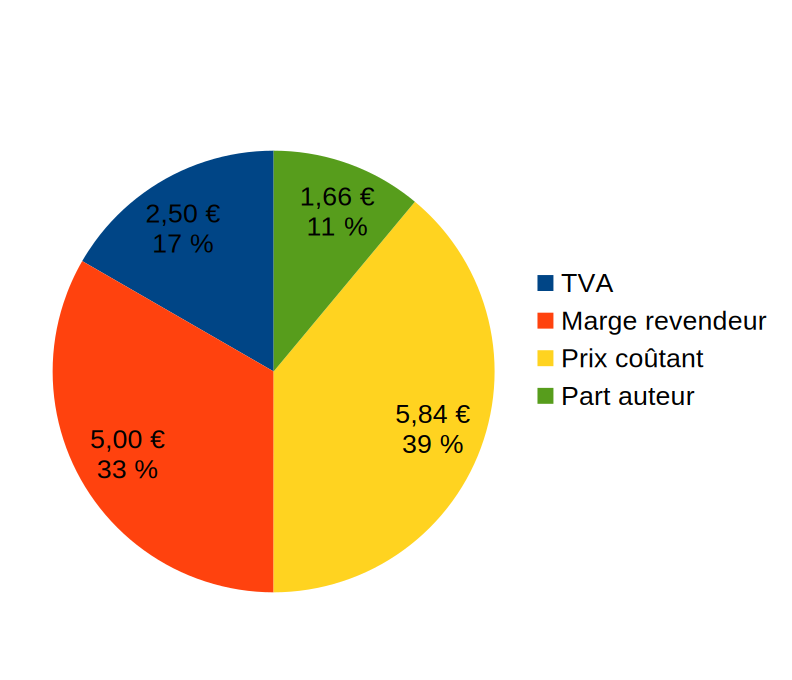
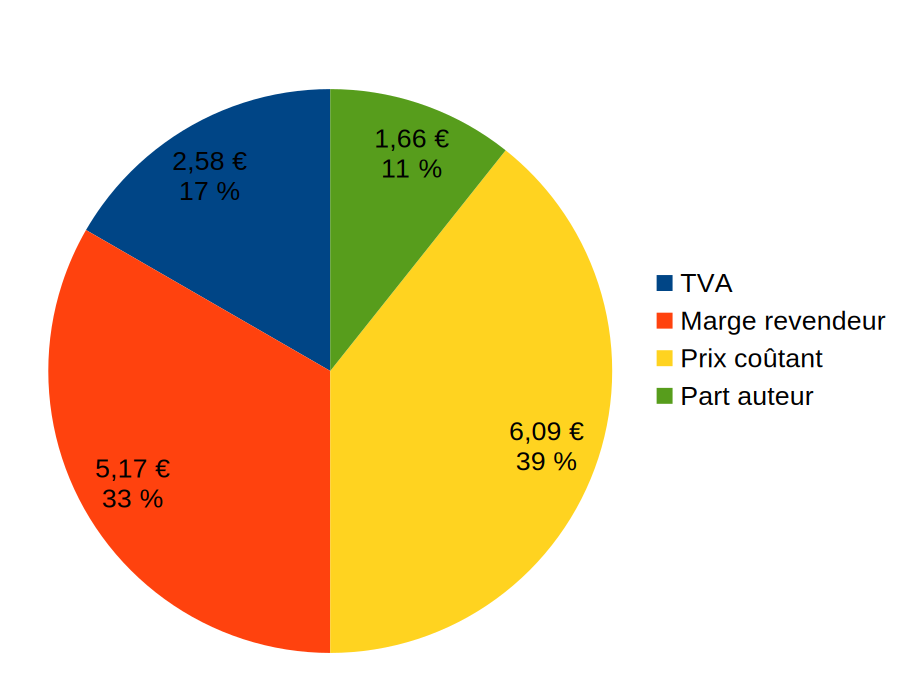
[FIX] Tout relier aux datas

Changed region(s): [[0.0303, 0.1235, 0.9697, 0.9574], [0.4545, 0.3397, 0.4848, 0.4015]]

diff --git a/produit/elementalis/page.html b/produit/elementalis/page.html
@@ -1,15 +1,16 @@
 <main>
-    <h1>Elementalis</h1>
+<h1 id="title">Elementalis</h1>
     <div class="gallery">
-        <img src="/IMAGES/elementalis_1.jpg" alt="Photo 1" height="200">
-        <img src="/IMAGES/elementalis_2.jpg" alt="Photo 2" height="200">
-        <img src="/IMAGES/elementalis_3.jpg" alt="Photo 3" height="200">
+        <img id="pic1" src="/" alt="Photo 1" height="200">
+        <img id="pic2" src="/" alt="Photo 2" height="200">
+        <img id="pic3" src="/" alt="Photo 3" height="200">
     </div>
 
     <div class="info-block">
         <table class="tg">
         <tr>
             <td>
+                <h2>Informations sur le produit</h2>
                 <p><strong>Auteur :</strong> Geoffroy "reza0310" Du Mosé Houël Du Prey De La Ruffinière</p>
                 <p><strong>Illustratrice :</strong> Louise Chamussy</p>
                 <p><strong>Nombre de joueurs :</strong> 2 à 4 et plus</p>
@@ -17,23 +18,56 @@
                 <p><strong>Type de jeu :</strong> simple, rapide et tous publiques</p>
                 <p><strong>Aspect principal :</strong> social</p>
                 <p><strong>Date de mise en vente :</strong> 08/11/2026</p>
-                <p><strong>Notice en pdf :</strong> <a href="/produit/elementalis/notice.pdf">cliquez ici</a></p>
+                <p><strong>Notice en pdf :</strong> <a href="/produit/elementalis/notice.pdf" target="_blank" rel="noopener noreferrer">cliquez ici</a></p>
             </td>
             <td>
+                <h2>Roue du prix</h2>
                 <img src="/IMAGES/roue_elementalis.png" alt="La roue des prix"/>
             </td>
         </tr>
+        <tr>
+            <td>
+                <h2>Description du produit</h2>
+                <p>Annoncez vos coups, lancez vos sorts, affrontez-vous et découvrez la vérité !</p>
+                <p>Dans ce jeu de bluff inspiré du pierre, feuille, ciseaux, annoncer vos coups en avance vous rend plus vulnérable mais... gagnez malgré tout et vous en serez fortement récompensé !</p>
+                <p>Entre bluff et réflexion, la meilleure des stratégie dans ce jeu reste le simple fait de connaître ses adversaires mieux qu'ils ne le pensent.</p>
+                <p>Expérimenté ? Les trois options de jeu fournies vous permettent d'en changer quelques règles afin de le rendre toujours plus palpitant, un poil plus complexe et surtout d'augmenter drastiquement la réjouabilité !</p>
+                <p>Cette boîte contient le matériel pour 4 joueurs : 44 cartes + 1 notice.</p>
+            </td>
+            <td>
+                <h2>Fabriquants</h2>
+                <strong><u>Boîtes :</u></strong> <a href="https://www.printeurope.fr/" target="_blank" rel="noopener noreferrer">PrintEurope (🇫🇷)</a><br>
+                <strong><u>Cartes :</u></strong> <a href="https://www.printeurope.fr/" target="_blank" rel="noopener noreferrer">PrintEurope (🇫🇷)</a><br>
+                <strong><u>Notices :</u></strong> <a href="https://www.bureau-vallee.fr/" target="_blank" rel="noopener noreferrer">BureauVallée (🇫🇷)</a> & <a href="/" target="_blank" rel="noopener noreferrer">PEVI (🇫🇷)</a><br>
+            </td>
+        </tr>
         </table>
-
-
-	<br>
-        <h2>Description du produit</h2>
-        <p>Annoncez vos coups, lancez vos sorts, affrontez-vous et découvrez la vérité !</p>
-        <p>Dans ce jeu de bluff inspiré du pierre, feuille, ciseaux, annoncer vos coups en avance vous rend plus vulnérable mais... gagnez malgré tout et vous en serez fortement récompensé !</p>
-        <p>Entre bluff et réflexion, la meilleure des stratégie dans ce jeu reste le simple fait de connaître ses adversaires mieux qu'ils ne le pensent.</p>
-        <p>Expérimenté ? Les trois options de jeu fournies vous permettent d'en changer quelques règles afin de le rendre toujours plus palpitant, un poil plus complexe et surtout d'augmenter drastiquement la réjouabilité !</p>
-        <p>Cette boîte contient le matériel pour 4 joueurs : 44 cartes + 1 notice.</p>
-        <h2 style="margin-top: 1rem;">15,00 €</h2>
+        <br>
+        <h2 id="prix" style="margin-top: 1rem;">-99€</h2>
         <button class="btn" onclick="addToCart(3770044154003)">Ajouter au panier</button>
     </div>
 </main>
+<script>
+    async function loadRemoteData() {
+        try {
+            const response = await fetch("/DATA/3770044154003.json");
+            if (!response.ok) {
+                throw new Error(`HTTP error! Status: ${response.status}`);
+            }
+            const data = await response.json();
+
+            document.getElementById("title").innerHTML = data["name"];
+            document.getElementById("pic1").src = "/IMAGES/" + data["sub_pics"][0];
+            document.getElementById("pic2").src = "/IMAGES/" + data["sub_pics"][1];
+            document.getElementById("pic3").src = "/IMAGES/" + data["sub_pics"][2];
+            document.getElementById("prix").innerHTML = data["price"] + "€";
+
+        } catch (error) {
+            // Handle any errors (e.g., network failure, bad URL)
+            console.error('Failed to load JSON:', error);
+        }
+    }
+
+    // Run the function when the script loads
+    loadRemoteData();
+</script>

diff --git a/produit/cards/elementalis.html b/produit/cards/elementalis.html
@@ -1,0 +1,30 @@
+<div class="product-card">
+    <h2 id="3770044154003_title" class="product-title">Elementalis</h2>
+    <a href="/produit/elementalis"><img id="3770044154003_pic" src="/" alt="Image de présentation" height="500"></a>
+    <p style="margin: 0.5em;">Prix : <strong id="3770044154003_price">15€ TTC</strong></p>
+    <br>
+    <a href="/produit/elementalis" class="btn" style="background-color: var(--secondary-blue); color: white;">Voir les détails</a>
+    <button class="btn" onclick="addToCart(3770044154003)">Ajouter au panier</button>
+</div>
+<script>
+    async function load3770044154003() {
+        try {
+            const response = await fetch("/DATA/3770044154003.json");
+            if (!response.ok) {
+                throw new Error(`HTTP error! Status: ${response.status}`);
+            }
+            const data = await response.json();
+
+            document.getElementById("3770044154003_title").innerHTML = data["name"];
+            document.getElementById("3770044154003_pic").src = "/IMAGES/" + data["main_pic"];
+            document.getElementById("3770044154003_price").innerHTML = data["price"] + "€";
+
+        } catch (error) {
+            // Handle any errors (e.g., network failure, bad URL)
+            console.error('Failed to load JSON:', error);
+        }
+    }
+
+    // Run the function when the script loads
+    load3770044154003();
+</script>

diff --git a/CSS/style.css b/CSS/style.css
@@ -393,8 +393,8 @@ footer a:hover {
 .info-block img {
     position: relative;
     top: 0;
-    right: -12%;
-    height: 21em;
+    right: 12%;
+    height: 18em;
 }
 
 @media (max-width: 760px) {

diff --git a/index.php b/index.php
@@ -2,7 +2,7 @@
 include "INCLUDES/utils.php";
 
 $cards = "";
-$cards .= file_get_contents("jeux/cards/elementalis.html");
+$cards .= file_get_contents("produit/cards/elementalis.html");
 
 $page = file_get_contents("page.html");
 $page = str_replace("%cards%", $cards, $page);
